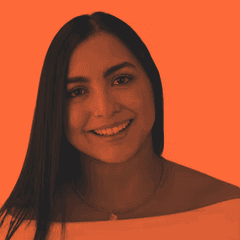
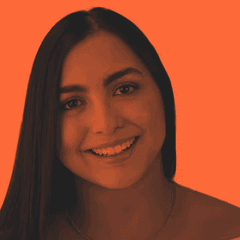
feat(team-photos): retratos duotono en Quienes somos y enlace de Juan
- Team.astro: foto local (astro:assets, alt vacio, 240x240, lazy) o avatar Loopy; disco de las mismas medidas que el Loopy
- enlace externo opcional por miembro (esquema strictObject, https): juan-tech.com, verified por indicacion de Juan
- ajuste de encuadre y gamma por foto; guardas de dist, esquema y YAML

diff --git a/src/content.config.ts b/src/content.config.ts
@@ -79,11 +79,26 @@ const landing = defineCollection({
         )
         .length(5),
     }),
-    // Cuatro integrantes exactos: la rejilla de 1, 2 y 4 columnas depende del conteo. Solo nombre y cargo:
-    // sin biografía, credencial ni enlaces hasta que Ari confirme (UI-SPEC sección 7).
+    // Cuatro integrantes exactos: la rejilla de 1, 2 y 4 columnas depende del conteo. Nombre y cargo, sin
+    // biografía ni credencial (UI-SPEC sección 7). Excepción de Juan (2026-09-20): un `link` opcional, solo en
+    // su tarjeta, con `url` (https, sin `javascript:` ni `data:`), `label` visible y `hint` para lectores de pantalla.
     team: z.strictObject({
       title: claim,
-      members: z.array(z.strictObject({ name: claim, role: claim })).length(4),
+      members: z
+        .array(
+          z.strictObject({
+            name: claim,
+            role: claim,
+            link: z
+              .strictObject({
+                url: claim.extend({ text: z.url({ protocol: /^https$/, error: 'debe ser una URL https://...' }) }),
+                label: claim,
+                hint: claim,
+              })
+              .optional(),
+          }),
+        )
+        .length(4),
     }),
     // Seis entregables y cuatro fases exactos: las rejillas de 1, 2 y 3 columnas y la lista de fases dependen del conteo.
     includes: z.strictObject({
